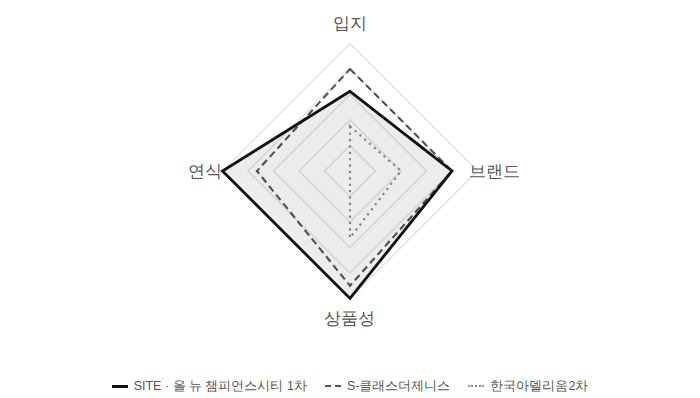
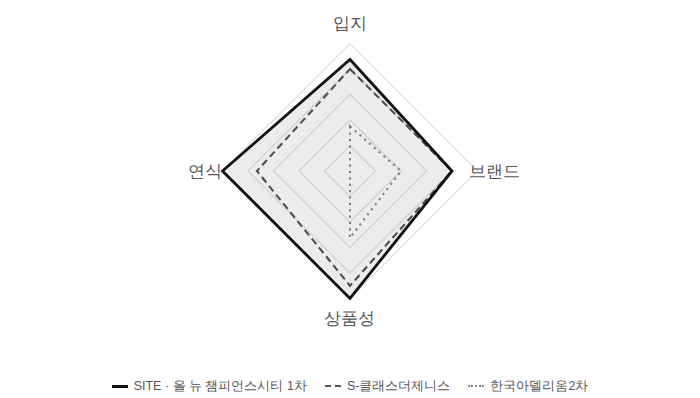
올 뉴 챔피언스시티 1차 입지 점수 추가 재평가 (25→35) — 랜드마크급 인프라 반영
더현대 광주·특급호텔이 같은 부지에 들어서는 것을 일반적인 생활 인프라를
넘어선 랜드마크급 요인으로 재판단해 입지 점수를 15점(최초)에서 35점으로
상향(종합평점 91). 이번 조정으로 SITE 입지 점수가 비교단지1(S-클래스
더제니스, 32점)을 근소하게 앞서게 됨. 적정가 6.15억→6.51억, 예상
프리미엄 -1.88억→-1.52억(약 23%→19% 고평가)으로 재계산. 표·설명·
SVG 차트·네이버 복사용 PNG 모두 갱신, 관련 포스팅 3건 동기화.

Claude-Session: https://claude.ai/code/session_014bA9ezyn55FbTPVbxFkuZW

Changed region(s): [[0.33, 0.1508, 0.66, 0.4221]]

diff --git a/posts/allnew-champions-city-1cha.html b/posts/allnew-champions-city-1cha.html
@@ -200,7 +200,7 @@
 <div class="wrap">
 
   <div class="titleblock">
-    <h1>광주 - 올 뉴 챔피언스시티 1차 | 옛 방직공장 부지 최고 49층 3,216세대, 예상 프리미엄은 -1.9억</h1>
+    <h1>광주 - 올 뉴 챔피언스시티 1차 | 옛 방직공장 부지 최고 49층 3,216세대, 예상 프리미엄은 -1.5억</h1>
   </div>
   <div class="byline">
     <span class="avatar">브</span>
@@ -226,17 +226,17 @@
     <div class="stat-pair">
       <div class="stat-box">
         <div class="sk">브동산 적정가 (84㎡)</div>
-        <div class="sv">6.15<span style="font-size:15px;font-weight:400;"> 억원</span></div>
-        <div class="sbar"><div style="width:77%"></div></div>
+        <div class="sv">6.51<span style="font-size:15px;font-weight:400;"> 억원</span></div>
+        <div class="sbar"><div style="width:81%"></div></div>
       </div>
       <div class="stat-box">
         <div class="sk">실제 분양가 (84A, 공개범위 중간값)</div>
         <div class="sv">8.03<span style="font-size:15px;font-weight:400;"> 억원</span></div>
         <div class="sbar"><div style="width:100%"></div></div>
-        <span class="delta">약 23% 고평가</span>
+        <span class="delta">약 19% 고평가</span>
       </div>
     </div>
-    <p class="premium" style="margin-top:-8px;">예상 프리미엄 -1.88억</p>
+    <p class="premium" style="margin-top:-8px;">예상 프리미엄 -1.52억</p>
 
     <div class="map-wrap">
       <svg viewBox="0 0 640 460" role="img" aria-label="올 뉴 챔피언스시티 1차 사업지, 비교단지 2곳, 배정초등학교, 주요 시설 위치를 나타낸 브동산 자체 제작 개략도">
@@ -314,7 +314,7 @@
         </g>
         <polygon points="120.00,88.50 156.00,120.00 120.00,167.25 120.00,120.00" fill="none" stroke="#8A8A8A" stroke-width="1.5" stroke-dasharray="1.5 3"/>
         <polygon points="120.00,48.00 192.00,120.00 120.00,201.00 54.30,120.00" fill="none" stroke="#555555" stroke-width="1.5" stroke-dasharray="5 3"/>
-        <polygon points="120.00,63.75 192.00,120.00 120.00,210.00 30.00,120.00" fill="rgba(17,17,17,0.08)" stroke="#111111" stroke-width="2"/>
+        <polygon points="120.00,41.25 192.00,120.00 120.00,210.00 30.00,120.00" fill="rgba(17,17,17,0.08)" stroke="#111111" stroke-width="2"/>
         <text x="120" y="20" text-anchor="middle" font-size="12" fill="#555555">입지</text>
         <text x="222" y="124" text-anchor="middle" font-size="12" fill="#555555">브랜드</text>
         <text x="120" y="228" text-anchor="middle" font-size="12" fill="#555555">상품성</text>
@@ -330,14 +330,14 @@
     <div class="bridge-wrap">
 <svg viewBox="0 0 640 310" role="img" aria-label="비교단지 현재시세가 평점·연령 보정을 거쳐 SITE 적정가로 이어지는 과정을 보여주는 브동산 적정가 산출 브릿지 차트">
 <rect x="0" y="0" width="640" height="310" fill="#FAFAFA"/>
-<line x1="330.26" y1="20" x2="330.26" y2="219" stroke="#BBBBBB" stroke-width="1" stroke-dasharray="3 3"/>
+<line x1="364.12" y1="20" x2="364.12" y2="219" stroke="#BBBBBB" stroke-width="1" stroke-dasharray="3 3"/>
 <text x="0" y="36.00" font-size="12.5" font-weight="800" fill="#111111">임동 S-클래스더제니스</text>
-<text x="397.16" y="52.00" text-anchor="middle" font-size="10.5" fill="#8A8A8A">평점·연령 ×1.022</text>
-<line x1="390.10" y1="66.00" x2="404.21" y2="66.00" stroke="#555555" stroke-width="1.5"/>
+<text x="431.02" y="52.00" text-anchor="middle" font-size="10.5" fill="#8A8A8A">평점·연령 ×1.128</text>
+<line x1="390.10" y1="66.00" x2="471.93" y2="66.00" stroke="#555555" stroke-width="1.5"/>
 <circle cx="390.10" cy="66.00" r="5.5" fill="#FFFFFF" stroke="#555555" stroke-width="2"/>
-<rect x="399.21" y="61.00" width="10" height="10" fill="#111111"/>
-<polygon points="399.21,66.00 391.21,63.00 391.21,69.00" fill="#555555"/>
-<text x="380.10" y="84.00" text-anchor="end" font-size="11" font-weight="400" fill="#8A8A8A">6.78억</text><text x="414.21" y="84.00" text-anchor="start" font-size="11" font-weight="700" fill="#111111">6.93억</text>
+<rect x="466.93" y="61.00" width="10" height="10" fill="#111111"/>
+<polygon points="466.93,66.00 458.93,63.00 458.93,69.00" fill="#555555"/>
+<text x="380.10" y="84.00" text-anchor="end" font-size="11" font-weight="400" fill="#8A8A8A">6.78억</text><text x="481.93" y="84.00" text-anchor="start" font-size="11" font-weight="700" fill="#111111">7.65억</text>
 <text x="0" y="122.00" font-size="12.5" font-weight="800" fill="#111111">임동 한국아델리움2차</text>
 <text x="179.28" y="138.00" text-anchor="middle" font-size="10.5" fill="#8A8A8A">평점·연령 ×1.440</text>
 <line x1="101.75" y1="152.00" x2="256.80" y2="152.00" stroke="#555555" stroke-width="1.5"/>
@@ -347,12 +347,12 @@
 <text x="91.75" y="170.00" text-anchor="end" font-size="11" font-weight="400" fill="#8A8A8A">3.73억</text><text x="266.80" y="170.00" text-anchor="start" font-size="11" font-weight="700" fill="#111111">5.37억</text>
 <line x1="0" y1="194" x2="640" y2="194" stroke="#E3E3E3" stroke-width="1"/>
 <text x="0" y="218" font-size="12.5" font-weight="800" fill="#111111">올 뉴 챔피언스시티 1차 (SITE)</text>
-<text x="419.28" y="234" text-anchor="middle" font-size="11" font-weight="800" fill="#111111">예상 프리미엄 -1.88억</text>
-<line x1="330.26" y1="248" x2="508.30" y2="248" stroke="#111111" stroke-width="2"/>
+<text x="436.21" y="234" text-anchor="middle" font-size="11" font-weight="800" fill="#111111">예상 프리미엄 -1.52억</text>
+<line x1="364.12" y1="248" x2="508.30" y2="248" stroke="#111111" stroke-width="2"/>
 <circle cx="508.30" cy="248" r="5.5" fill="#FFFFFF" stroke="#111111" stroke-width="2"/>
-<path d="M 324.26 248 L 330.26 242 L 336.26 248 L 330.26 254 Z" fill="#111111"/>
-<polygon points="336.26,248.00 344.26,245.00 344.26,251.00" fill="#111111"/>
-<text x="320.26" y="270" text-anchor="end" font-size="11" font-weight="800" fill="#111111">적정가 6.15억</text>
+<path d="M 358.12 248 L 364.12 242 L 370.12 248 L 364.12 254 Z" fill="#111111"/>
+<polygon points="370.12,248.00 378.12,245.00 378.12,251.00" fill="#111111"/>
+<text x="354.12" y="270" text-anchor="end" font-size="11" font-weight="800" fill="#111111">적정가 6.51억</text>
 <text x="518.30" y="270" text-anchor="start" font-size="11" font-weight="400" fill="#8A8A8A">실제분양가 8.03억</text>
 <text x="0" y="298" font-size="10.5" fill="#8A8A8A">○=현재시세/실제분양가 · ■=평점·연령 보정 후 보정가격 · ◆=SITE 적정가(두 보정가격 평균) · 점선=적정가 기준선 · ▶=보정·산출 방향(현재시세→보정가격, 분양가→적정가)</text>
 </svg>
@@ -363,23 +363,23 @@
       <table>
         <thead><tr><th>평가 항목</th><th>SITE · 올뉴챔피언스시티1차<br><span class="note" style="margin-top:2px;">(우미건설·신영씨앤디·3,216세대·2030년 11월 입주예정)</span></th><th>S-클래스더제니스<br><span class="note" style="margin-top:2px;">(중흥토건+두산건설·2,240세대·2024년 2월 입주)</span></th><th>한국아델리움2차<br><span class="note" style="margin-top:2px;">(한국건설·574세대·2007년 7월 입주)</span></th></tr></thead>
         <tbody>
-          <tr><td>입지(40)</td><td class="figure">25</td><td class="figure">32</td><td class="figure">14</td></tr>
+          <tr><td>입지(40)</td><td class="figure">35</td><td class="figure">32</td><td class="figure">14</td></tr>
           <tr><td>브랜드(20)</td><td class="figure">16</td><td class="figure">16</td><td class="figure">8</td></tr>
           <tr><td>상품성(40)</td><td class="figure">40</td><td class="figure">36</td><td class="figure">21</td></tr>
-          <tr><td>종합평점</td><td class="figure"><b>81</b></td><td class="figure">84</td><td class="figure">43</td></tr>
+          <tr><td>종합평점</td><td class="figure"><b>91</b></td><td class="figure">84</td><td class="figure">43</td></tr>
           <tr><td>연식가산율</td><td class="figure">기준(입주예정)</td><td class="figure">6년9개월차·×1.054</td><td class="figure">23년4개월차(20년초과 상한)·×1.200</td></tr>
           <tr><td>84㎡ 기준가</td><td class="figure">-</td><td class="figure">6.78억(2026.8~9 실거래 5건 평균)</td><td class="figure">3.73억(2026.1~4 실거래 3건 평균, 직거래 제외)</td></tr>
-          <tr><td>보정가격</td><td class="figure">-</td><td class="figure">6.93억</td><td class="figure">5.37억</td></tr>
+          <tr><td>보정가격</td><td class="figure">-</td><td class="figure">7.65억</td><td class="figure">5.37억</td></tr>
         </tbody>
       </table>
     </div>
     <p class="note">평점은 브동산이 교통·주거·교육 여건과 브랜드·세대수·조망·주차 등을 종합해 자체 산정한 값입니다. SITE(우미건설·신영씨앤디)와 S-클래스더제니스(중흥토건+두산건설)는 브동산 브랜드 등급상 '대기업 중위'로 동일하게 평가했고, 한국아델리움2차(한국건설, 2009년 워크아웃 이력이 있는 지역 중소건설사)는 '중소'로 낮게 평가했습니다. 84㎡ 기준가는 호갱노노·국토교통부 실거래가(2026.09.27 확인)를 인용했으며, SITE 분양가는 84A 타입의 공개된 분양가 범위(7.35억~8.70억)의 중간값입니다. 전남광주는 행정상 '전남광주통합특별시'로 표기되지만, 브동산 평점 체계에서는 종전 광주광역시와 동일한 '광역시(지하철 중심)' 배점을 적용했습니다.</p>
 
     <ul class="plain">
-      <li><b>입지:</b> SITE는 서림초등학교를 도보 7분(458m)에 이용할 수 있고 신세계·이마트 광주점도 차량 4분 거리지만, 정작 도시철도(양동시장역)까지는 1.3km·도보 19분으로 다소 거리가 있어 원래 낮게 평가했습니다. 다만 같은 부지 안에 헤르초크&amp;드뫼롱이 설계한 '더현대 광주' 백화점과 특급호텔이 함께 들어선다는 점은 일반적인 생활 인프라 접근성을 뛰어넘는 요인으로 판단해, 입지 점수를 15점에서 25점으로 상향 조정했습니다(2026.09.28, 편집 조정). 그럼에도 같은 임동의 S-클래스더제니스는 역에서 150m 초역세권이라 여전히 입지 점수가 앞섭니다.</li>
+      <li><b>입지:</b> SITE는 서림초등학교를 도보 7분(458m)에 이용할 수 있고 신세계·이마트 광주점도 차량 4분 거리지만, 정작 도시철도(양동시장역)까지는 1.3km·도보 19분으로 다소 거리가 있어 원래 낮게 평가했습니다. 다만 같은 부지 안에 헤르초크&amp;드뫼롱이 설계한 '더현대 광주' 백화점과 특급호텔이 함께 들어선다는 점은 단순한 생활 인프라를 넘어 거의 랜드마크급 인프라를 끼고 있는 것으로 판단해, 입지 점수를 15점에서 35점으로 상향 조정했습니다(2026.09.28, 편집 조정). 이 조정으로 역세권에서 앞섰던 같은 임동의 S-클래스더제니스(입지 32점)보다도 SITE의 입지 점수가 근소하게 더 높아졌습니다.</li>
       <li><b>브랜드:</b> 우미건설·신영씨앤디(SITE)와 중흥토건+두산건설(S-클래스더제니스)은 브동산 등급상 동일한 '대기업 중위'로 평가해 브랜드 점수 차이는 없습니다. 2009년 워크아웃 이력이 있는 지역 중소건설사 한국건설(한국아델리움2차)은 낮게 평가했습니다.</li>
       <li><b>상품성:</b> SITE는 3,216세대 초대형 규모에 최고 49층 랜드마크, 광주 최대 규모(약 1.2만㎡) 커뮤니티에 더해 같은 챔피언스시티 부지에 더현대 광주와 특급호텔·업무시설까지 함께 들어서는 복합개발이라는 상징성을 반영해 상품성 점수를 40점(만점)으로 상향 조정했습니다(2026.09.28, 편집 조정). 2024년 준공한 S-클래스더제니스는 '광주 첫 하이엔드'를 표방하는 신축 대단지지만 단일 주거단지라는 점에서 SITE보다는 낮게, 2007년식 한국아델리움2차는 상품성이 뚜렷하게 낮게 평가했습니다.</li>
-      <li><b>브동산 적정가 기준으로는 뚜렷한 고평가 신호(약 23%).</b> 입지·상품성 재평가를 반영해도, SITE와 같은 생활권이면서 최근 2년 내 실거래가 활발한 S-클래스더제니스의 시세(6.78억)를 입지·브랜드·상품성·연식 차이만큼 보정하면 6.93억에 그쳐, SITE의 84A 분양가(중간값 8.03억)보다 낮습니다.</li>
+      <li><b>브동산 적정가 기준으로는 뚜렷한 고평가 신호(약 19%).</b> 입지·상품성 재평가를 반영해도, SITE와 같은 생활권이면서 최근 2년 내 실거래가 활발한 S-클래스더제니스의 시세(6.78억)를 입지·브랜드·상품성·연식 차이만큼 보정하면 7.65억에 그쳐, SITE의 84A 분양가(중간값 8.03억)보다 낮습니다.</li>
       <li><b>실제 청약 성적은 양극화됐습니다.</b> 일반공급 2,932가구 모집에 3,641명이 접수해 평균 1.24대 1을 기록했지만, 84A 타입은 5.47대 1로 흥행한 반면 84C·84E·103B 등 다른 타입은 2순위에서도 미달됐습니다. 브동산 모형상 고평가 신호와 '쏠림·미달 혼재'라는 실제 청약 결과가 같은 방향을 가리키고 있습니다.</li>
     </ul>
 
@@ -507,7 +507,7 @@
 
     <p>임동·인근 매곡동·동림동에는 힐스테이트중외공원2·3블록(각 785·681세대, 2026년 12월 입주예정)과 운암산공원진아리채그랑뷰(414세대, 2026년 10월 입주예정) 등 신축 공급이 비슷한 시기에 몰려 있습니다. 다만 이들은 SITE와 다른 생활권(매곡동·동림동)이라 직접 경쟁 관계로 보기는 어렵습니다. 반면 SITE와 같은 임동 생활권의 S-클래스더제니스(2024년 입주)·한국아델리움2차(2007년 입주)는 이미 안정적으로 거래되고 있어, SITE 입주 시점(2030년)까지 상당한 시차가 있습니다.</p>
 
-    <p>실제로 SITE는 평균 1.24대 1로 전체적으로는 미달을 면했지만, 84A(5.47대 1)에만 수요가 몰리고 84C·84E·103B 등 나머지 타입은 2순위에서도 미달됐습니다. 브동산 모형상 고평가 신호(약 28%)와 이러한 '일부 쏠림·전반 부진'이 같은 방향을 가리키고 있어, 8억원대 후반에 이르는 높은 분양가가 부담 요인으로 작용했을 가능성이 있습니다. 다만 '더현대 광주' 개점(2028~2029년 목표)이라는 대형 호재가 아직 가격에 온전히 반영되지 않았을 가능성도 함께 고려해야 합니다.</p>
+    <p>실제로 SITE는 평균 1.24대 1로 전체적으로는 미달을 면했지만, 84A(5.47대 1)에만 수요가 몰리고 84C·84E·103B 등 나머지 타입은 2순위에서도 미달됐습니다. 브동산 모형상 고평가 신호(약 19%)와 이러한 '일부 쏠림·전반 부진'이 같은 방향을 가리키고 있어, 8억원대 후반에 이르는 높은 분양가가 부담 요인으로 작용했을 가능성이 있습니다. 다만 '더현대 광주' 개점(2028~2029년 목표)이라는 대형 호재가 아직 가격에 온전히 반영되지 않았을 가능성도 함께 고려해야 합니다.</p>
   </section>
 
   <section id="s5">
@@ -525,7 +525,7 @@
       <div class="box">
         <h3>리스크</h3>
         <ul class="plain">
-          <li>브동산 모형상 같은 임동 생활권 실거래 시세 대비 약 23% 고평가 신호</li>
+          <li>브동산 모형상 같은 임동 생활권 실거래 시세 대비 약 19% 고평가 신호</li>
           <li>84C·84E·103B 등 다수 타입이 2순위에서도 미달</li>
           <li>도시철도(양동시장역)까지 1.3km로 도보 접근성은 약함</li>
           <li>입주까지 4년 이상 남은 후분양 이전 단계라, '더현대 광주' 등 호재의 실현 시점 리스크 존재</li>

diff --git a/posts-data.js b/posts-data.js
@@ -156,12 +156,12 @@ const POSTS = [
     category: "realestate",
     region: "광주",
     tag: "청약 언박싱 No.025",
-    title: "광주 - 올 뉴 챔피언스시티 1차 | 옛 방직공장 부지 최고 49층 3,216세대, 예상 프리미엄은 -1.9억",
+    title: "광주 - 올 뉴 챔피언스시티 1차 | 옛 방직공장 부지 최고 49층 3,216세대, 예상 프리미엄은 -1.5억",
     date: "2026-09-28",
     dateLabel: "2026. 9. 28",
     url: "posts/allnew-champions-city-1cha.html",
     preview: `
-      <p>광주 북구 임동, 옛 전방·일신방직 공장 부지에 우미건설·신영씨앤디가 짓는 올 뉴 챔피언스시티 1차는 지하 3층~지상 최고 49층, 12개동, 총 3,216세대 규모의 매머드급 복합개발 단지다. 같은 부지에 더현대 광주와 특급호텔·업무시설까지 들어서는 복합개발 상징성을 반영해 상품성 점수를 만점으로, 입지 점수도 15→25점으로 상향 조정했다(2026.09.28). 브동산이 같은 임동 생활권의 S-클래스더제니스·한국아델리움2차 두 단지의 84㎡ 가격을 보정해 산출한 적정가는 6.15억원으로, 실제 분양가(중간값 8.03억원)보다 약 23% 낮았다.</p>
+      <p>광주 북구 임동, 옛 전방·일신방직 공장 부지에 우미건설·신영씨앤디가 짓는 올 뉴 챔피언스시티 1차는 지하 3층~지상 최고 49층, 12개동, 총 3,216세대 규모의 매머드급 복합개발 단지다. 같은 부지에 더현대 광주와 특급호텔·업무시설까지 들어서는 복합개발 상징성을 반영해 상품성 점수를 만점으로, 입지 점수도 15→35점으로 상향 조정했다(2026.09.28). 브동산이 같은 임동 생활권의 S-클래스더제니스·한국아델리움2차 두 단지의 84㎡ 가격을 보정해 산출한 적정가는 6.51억원으로, 실제 분양가(중간값 8.03억원)보다 약 19% 낮았다.</p>
     `
   },
   {

diff --git a/posts/hoban-summit-pungmu-3.html b/posts/hoban-summit-pungmu-3.html
@@ -576,7 +576,7 @@
       </a>
       <a class="related-item" href="allnew-champions-city-1cha.html">
         <span class="r-tag">청약 언박싱 No.025</span>
-        <span class="r-title">광주 - 올 뉴 챔피언스시티 1차 | 옛 방직공장 부지 최고 49층 3,216세대, 예상 프리미엄은 -1.9억</span>
+        <span class="r-title">광주 - 올 뉴 챔피언스시티 1차 | 옛 방직공장 부지 최고 49층 3,216세대, 예상 프리미엄은 -1.5억</span>
       </a>
     </div>
     <div class="list-more"><a class="btn-list" href="https://brandongsan.com/realestate.html">청약·분양 목록 전체보기</a></div>

diff --git a/posts/pentahills-w-1danji.html b/posts/pentahills-w-1danji.html
@@ -614,7 +614,7 @@
       </a>
       <a class="related-item" href="allnew-champions-city-1cha.html">
         <span class="r-tag">청약 언박싱 No.025</span>
-        <span class="r-title">광주 - 올 뉴 챔피언스시티 1차 | 옛 방직공장 부지 최고 49층 3,216세대, 예상 프리미엄은 -1.9억</span>
+        <span class="r-title">광주 - 올 뉴 챔피언스시티 1차 | 옛 방직공장 부지 최고 49층 3,216세대, 예상 프리미엄은 -1.5억</span>
       </a>
     </div>
     <div class="list-more"><a class="btn-list" href="https://brandongsan.com/realestate.html">청약·분양 목록 전체보기</a></div>

diff --git a/posts/gimhae-sinmun-central-ipark.html b/posts/gimhae-sinmun-central-ipark.html
@@ -550,7 +550,7 @@
     <div class="related-list">
       <a class="related-item" href="allnew-champions-city-1cha.html">
         <span class="r-tag">청약 언박싱 No.025</span>
-        <span class="r-title">광주 - 올 뉴 챔피언스시티 1차 | 옛 방직공장 부지 최고 49층 3,216세대, 예상 프리미엄은 -1.9억</span>
+        <span class="r-title">광주 - 올 뉴 챔피언스시티 1차 | 옛 방직공장 부지 최고 49층 3,216세대, 예상 프리미엄은 -1.5억</span>
       </a>
       <a class="related-item" href="pentahills-w-1danji.html">
         <span class="r-tag">청약 언박싱 No.031</span>
